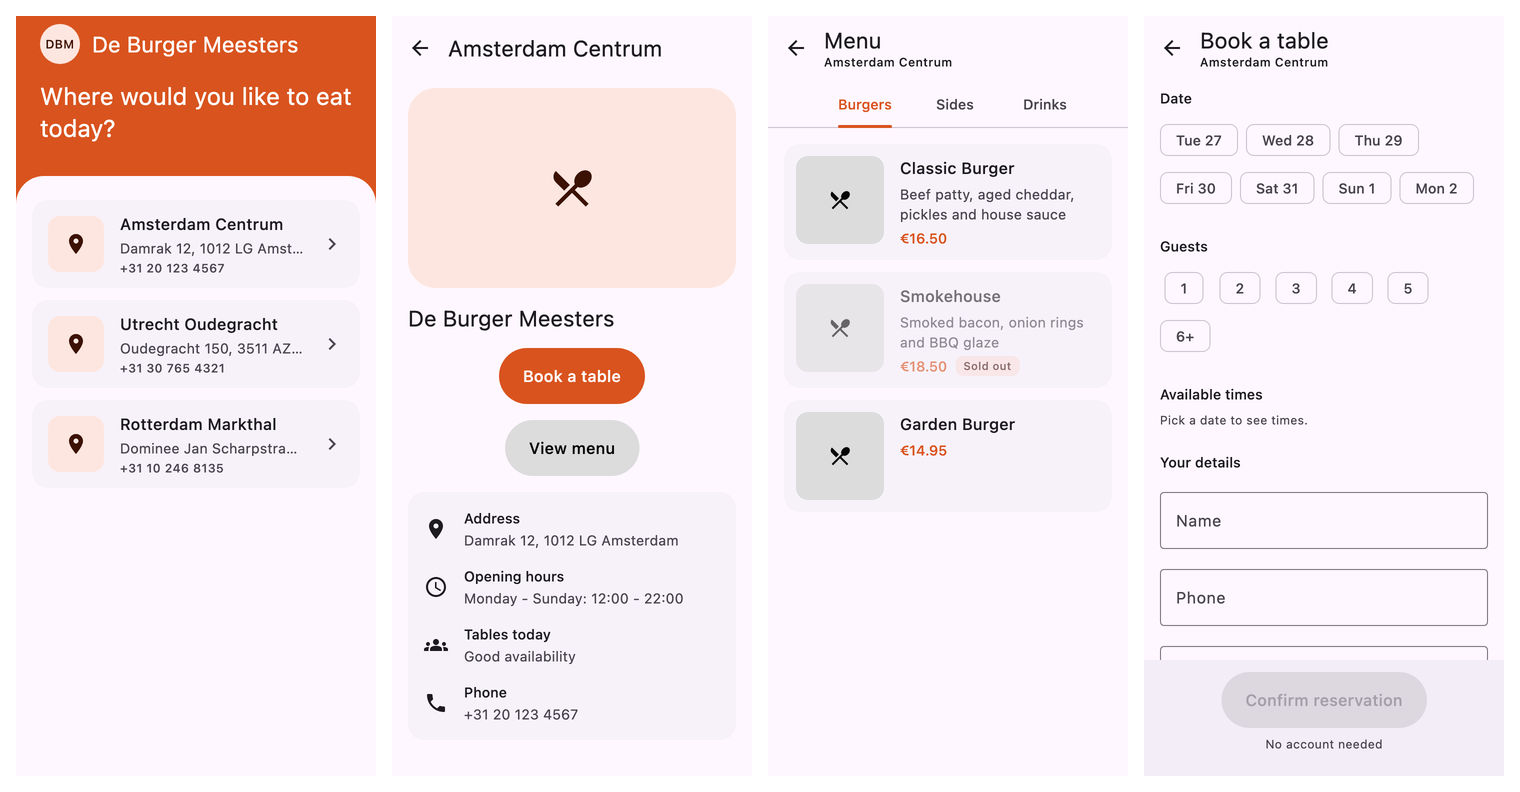
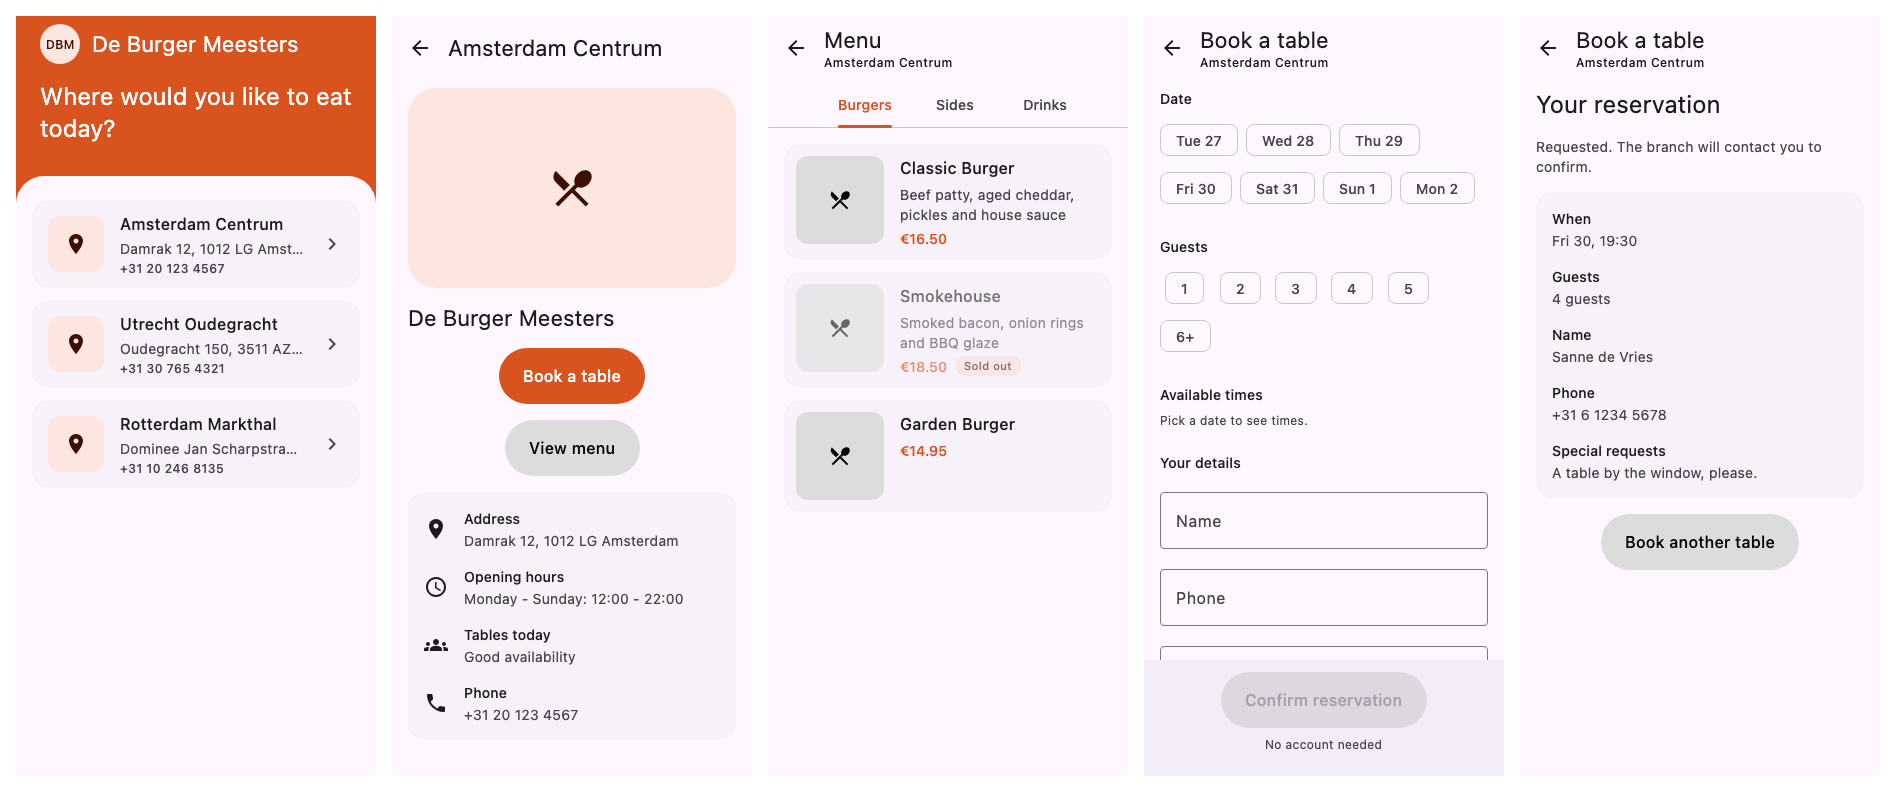
docs: add the Your reservation screen to the README screenshots

diff --git a/README.md b/README.md
@@ -16,11 +16,11 @@ Rendered from the Compose previews with sample data, in each brand's palette.
 
 **Burger Joint**
 
-![Burger Joint: choose a branch, branch details, menu, book a table](docs/screenshots/burgerjoint.png)
+![Burger Joint: choose a branch, branch details, menu, book a table, your reservation](docs/screenshots/burgerjoint.png)
 
 **Cafe Local**
 
-![Cafe Local: choose a branch, branch details, menu, book a table](docs/screenshots/cafelocal.png)
+![Cafe Local: choose a branch, branch details, menu, book a table, your reservation](docs/screenshots/cafelocal.png)
 
 ## Features
 
